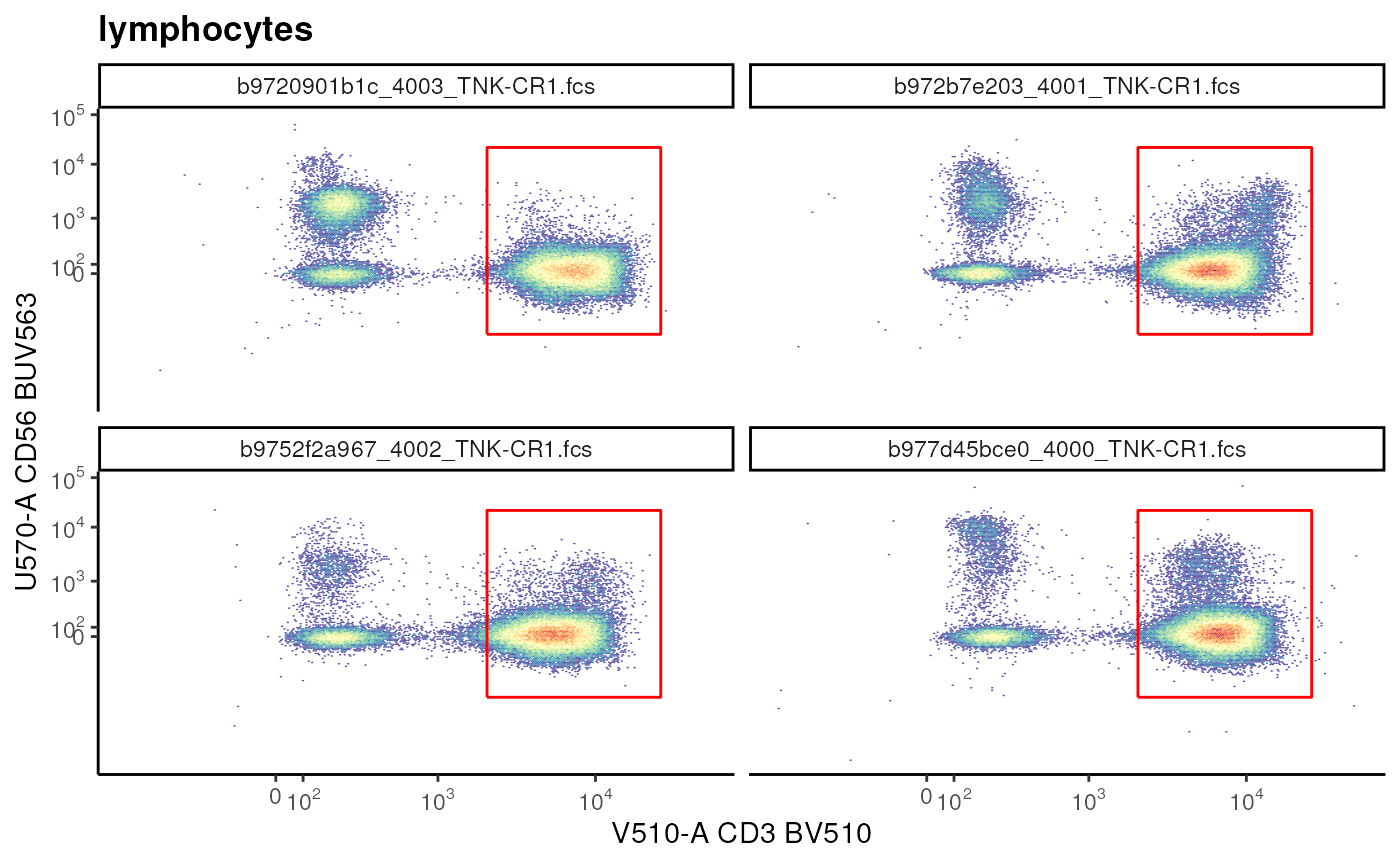
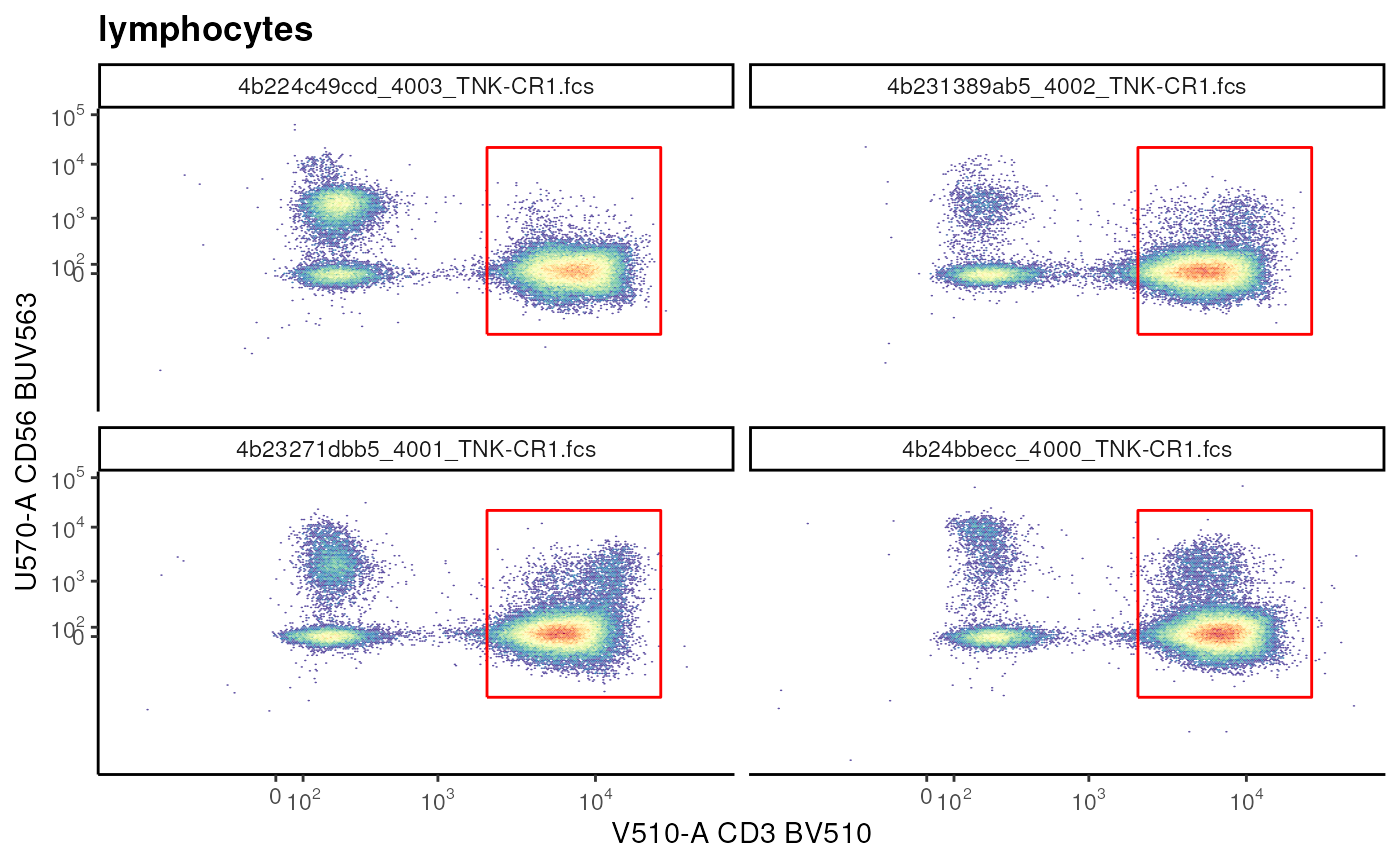
Deploying to gh-pages from @ OzetteTech/cytoverse-bioc-2023@3f255e2085b8fda57d5986c4566aa3592f939d51 🚀

diff --git a/articles/Import_fcs.html b/articles/Import_fcs.html
@@ -109,14 +109,15 @@ files</h1>
     
 <p>Flow cytometry data (regardless of the type of instrument used) is
 generally saved as a <strong>.fcs</strong> file. This file is populated
-with various parameters: such as userid, instrumentid,</p>
+with various parameters: such as userid or instrumentid, in addition to
+the actual single cell data [WRITE MORE].</p>
 <div class="section level2">
 <h2 id="installingloading-required-libraries">Installing/loading required libraries<a class="anchor" aria-label="anchor" href="#installingloading-required-libraries"></a>
 </h2>
 <p>Start by installing and loading the Cytoverse package
-<strong>flowCore</strong> hosted at <strong>bioconductor.org</strong>.
-This package allows us to read and manipulate the <strong>.fcs</strong>
-file in R.</p>
+<strong>flowCore</strong> hosted at
+<strong>biocosamnductor.org</strong>. This package allows us to read and
+manipulate the <strong>.fcs</strong> file in R.</p>
 <div class="sourceCode" id="cb1"><pre class="downlit sourceCode r">
 <code class="sourceCode R"><span><span class="fu"><a href="https://rdrr.io/r/utils/install.packages.html" class="external-link">install.packages</a></span><span class="op">(</span><span class="st">"BioManager"</span><span class="op">)</span></span>
 <span><span class="fu">BiocManager</span><span class="fu">::</span><span class="fu"><a href="https://bioconductor.github.io/BiocManager/reference/install.html" class="external-link">install</a></span><span class="op">(</span><span class="st">"flowCore"</span><span class="op">)</span></span></code></pre></div>
@@ -481,61 +482,61 @@ Additionally, <code>cytoset</code> is built upon a collection of
 <span><span class="co"># prior to providing metadata</span></span>
 <span><span class="fu"><a href="https://rdrr.io/pkg/Biobase/man/phenoData.html" class="external-link">pData</a></span><span class="op">(</span><span class="va">fs</span><span class="op">)</span></span></code></pre></div>
 <pre><code><span><span class="co">##                                                      name</span></span>
-<span><span class="co">## b97615bf0a5_4000_BDC-CR1.fcs b97615bf0a5_4000_BDC-CR1.fcs</span></span>
-<span><span class="co">## b9711543845_4000_BDC-CR2.fcs b9711543845_4000_BDC-CR2.fcs</span></span>
-<span><span class="co">## b977d45bce0_4000_TNK-CR1.fcs b977d45bce0_4000_TNK-CR1.fcs</span></span>
-<span><span class="co">## b9748bb2acf_4000_TNK-CR2.fcs b9748bb2acf_4000_TNK-CR2.fcs</span></span>
-<span><span class="co">## b972c30fdef_4001_BDC-CR1.fcs b972c30fdef_4001_BDC-CR1.fcs</span></span>
-<span><span class="co">## b973f63eb39_4001_BDC-CR2.fcs b973f63eb39_4001_BDC-CR2.fcs</span></span>
-<span><span class="co">## b972b7e203_4001_TNK-CR1.fcs   b972b7e203_4001_TNK-CR1.fcs</span></span>
-<span><span class="co">## b9770c0c3ee_4001_TNK-CR2.fcs b9770c0c3ee_4001_TNK-CR2.fcs</span></span>
-<span><span class="co">## b974e93be1c_4002_BDC-CR1.fcs b974e93be1c_4002_BDC-CR1.fcs</span></span>
-<span><span class="co">## b976efe113c_4002_BDC-CR2.fcs b976efe113c_4002_BDC-CR2.fcs</span></span>
-<span><span class="co">## b9752f2a967_4002_TNK-CR1.fcs b9752f2a967_4002_TNK-CR1.fcs</span></span>
-<span><span class="co">## b973dcd50cc_4002_TNK-CR2.fcs b973dcd50cc_4002_TNK-CR2.fcs</span></span>
-<span><span class="co">## b9724ab3921_4003_BDC-CR1.fcs b9724ab3921_4003_BDC-CR1.fcs</span></span>
-<span><span class="co">## b9773f7bc42_4003_BDC-CR2.fcs b9773f7bc42_4003_BDC-CR2.fcs</span></span>
-<span><span class="co">## b9720901b1c_4003_TNK-CR1.fcs b9720901b1c_4003_TNK-CR1.fcs</span></span>
-<span><span class="co">## b974c518dbf_4003_TNK-CR2.fcs b974c518dbf_4003_TNK-CR2.fcs</span></span></code></pre>
+<span><span class="co">## 4b22c204bb0_4000_BDC-CR1.fcs 4b22c204bb0_4000_BDC-CR1.fcs</span></span>
+<span><span class="co">## 4b24c3d3d45_4000_BDC-CR2.fcs 4b24c3d3d45_4000_BDC-CR2.fcs</span></span>
+<span><span class="co">## 4b24bbecc_4000_TNK-CR1.fcs     4b24bbecc_4000_TNK-CR1.fcs</span></span>
+<span><span class="co">## 4b230e08772_4000_TNK-CR2.fcs 4b230e08772_4000_TNK-CR2.fcs</span></span>
+<span><span class="co">## 4b2620860db_4001_BDC-CR1.fcs 4b2620860db_4001_BDC-CR1.fcs</span></span>
+<span><span class="co">## 4b267a096cd_4001_BDC-CR2.fcs 4b267a096cd_4001_BDC-CR2.fcs</span></span>
+<span><span class="co">## 4b23271dbb5_4001_TNK-CR1.fcs 4b23271dbb5_4001_TNK-CR1.fcs</span></span>
+<span><span class="co">## 4b2447e0a89_4001_TNK-CR2.fcs 4b2447e0a89_4001_TNK-CR2.fcs</span></span>
+<span><span class="co">## 4b2533bcf54_4002_BDC-CR1.fcs 4b2533bcf54_4002_BDC-CR1.fcs</span></span>
+<span><span class="co">## 4b2519a6229_4002_BDC-CR2.fcs 4b2519a6229_4002_BDC-CR2.fcs</span></span>
+<span><span class="co">## 4b231389ab5_4002_TNK-CR1.fcs 4b231389ab5_4002_TNK-CR1.fcs</span></span>
+<span><span class="co">## 4b241534469_4002_TNK-CR2.fcs 4b241534469_4002_TNK-CR2.fcs</span></span>
+<span><span class="co">## 4b2614f8d29_4003_BDC-CR1.fcs 4b2614f8d29_4003_BDC-CR1.fcs</span></span>
+<span><span class="co">## 4b250f2d882_4003_BDC-CR2.fcs 4b250f2d882_4003_BDC-CR2.fcs</span></span>
+<span><span class="co">## 4b224c49ccd_4003_TNK-CR1.fcs 4b224c49ccd_4003_TNK-CR1.fcs</span></span>
+<span><span class="co">## 4b2552dde4f_4003_TNK-CR2.fcs 4b2552dde4f_4003_TNK-CR2.fcs</span></span></code></pre>
 <div class="sourceCode" id="cb60"><pre class="downlit sourceCode r">
 <code class="sourceCode R"><span><span class="co"># add metadata </span></span>
 <span><span class="fu"><a href="https://rdrr.io/pkg/Biobase/man/phenoData.html" class="external-link">pData</a></span><span class="op">(</span><span class="va">fs</span><span class="op">)</span> <span class="op">&lt;-</span> <span class="va">metadata</span></span>
 <span></span>
 <span><span class="fu"><a href="https://rdrr.io/pkg/Biobase/man/phenoData.html" class="external-link">pData</a></span><span class="op">(</span><span class="va">fs</span><span class="op">)</span></span></code></pre></div>
 <pre><code><span><span class="co">##                              Treatment         panel</span></span>
-<span><span class="co">## b97615bf0a5_4000_BDC-CR1.fcs   Treated Myeloid Panel</span></span>
-<span><span class="co">## b9711543845_4000_BDC-CR2.fcs   Treated Myeloid Panel</span></span>
-<span><span class="co">## b977d45bce0_4000_TNK-CR1.fcs   Treated  T Cell Panel</span></span>
-<span><span class="co">## b9748bb2acf_4000_TNK-CR2.fcs   Treated  T Cell Panel</span></span>
-<span><span class="co">## b972c30fdef_4001_BDC-CR1.fcs Untreated Myeloid Panel</span></span>
-<span><span class="co">## b973f63eb39_4001_BDC-CR2.fcs Untreated Myeloid Panel</span></span>
-<span><span class="co">## b972b7e203_4001_TNK-CR1.fcs  Untreated  T Cell Panel</span></span>
-<span><span class="co">## b9770c0c3ee_4001_TNK-CR2.fcs   Treated  T Cell Panel</span></span>
-<span><span class="co">## b974e93be1c_4002_BDC-CR1.fcs Untreated Myeloid Panel</span></span>
-<span><span class="co">## b976efe113c_4002_BDC-CR2.fcs   Treated Myeloid Panel</span></span>
-<span><span class="co">## b9752f2a967_4002_TNK-CR1.fcs Untreated  T Cell Panel</span></span>
-<span><span class="co">## b973dcd50cc_4002_TNK-CR2.fcs Untreated  T Cell Panel</span></span>
-<span><span class="co">## b9724ab3921_4003_BDC-CR1.fcs Untreated Myeloid Panel</span></span>
-<span><span class="co">## b9773f7bc42_4003_BDC-CR2.fcs Untreated Myeloid Panel</span></span>
-<span><span class="co">## b9720901b1c_4003_TNK-CR1.fcs Untreated  T Cell Panel</span></span>
-<span><span class="co">## b974c518dbf_4003_TNK-CR2.fcs   Treated  T Cell Panel</span></span>
+<span><span class="co">## 4b22c204bb0_4000_BDC-CR1.fcs Untreated Myeloid Panel</span></span>
+<span><span class="co">## 4b24c3d3d45_4000_BDC-CR2.fcs   Treated Myeloid Panel</span></span>
+<span><span class="co">## 4b24bbecc_4000_TNK-CR1.fcs   Untreated  T Cell Panel</span></span>
+<span><span class="co">## 4b230e08772_4000_TNK-CR2.fcs Untreated  T Cell Panel</span></span>
+<span><span class="co">## 4b2620860db_4001_BDC-CR1.fcs Untreated Myeloid Panel</span></span>
+<span><span class="co">## 4b267a096cd_4001_BDC-CR2.fcs   Treated Myeloid Panel</span></span>
+<span><span class="co">## 4b23271dbb5_4001_TNK-CR1.fcs Untreated  T Cell Panel</span></span>
+<span><span class="co">## 4b2447e0a89_4001_TNK-CR2.fcs Untreated  T Cell Panel</span></span>
+<span><span class="co">## 4b2533bcf54_4002_BDC-CR1.fcs Untreated Myeloid Panel</span></span>
+<span><span class="co">## 4b2519a6229_4002_BDC-CR2.fcs   Treated Myeloid Panel</span></span>
+<span><span class="co">## 4b231389ab5_4002_TNK-CR1.fcs   Treated  T Cell Panel</span></span>
+<span><span class="co">## 4b241534469_4002_TNK-CR2.fcs   Treated  T Cell Panel</span></span>
+<span><span class="co">## 4b2614f8d29_4003_BDC-CR1.fcs   Treated Myeloid Panel</span></span>
+<span><span class="co">## 4b250f2d882_4003_BDC-CR2.fcs Untreated Myeloid Panel</span></span>
+<span><span class="co">## 4b224c49ccd_4003_TNK-CR1.fcs   Treated  T Cell Panel</span></span>
+<span><span class="co">## 4b2552dde4f_4003_TNK-CR2.fcs Untreated  T Cell Panel</span></span>
 <span><span class="co">##                                                      name</span></span>
-<span><span class="co">## b97615bf0a5_4000_BDC-CR1.fcs b97615bf0a5_4000_BDC-CR1.fcs</span></span>
-<span><span class="co">## b9711543845_4000_BDC-CR2.fcs b9711543845_4000_BDC-CR2.fcs</span></span>
-<span><span class="co">## b977d45bce0_4000_TNK-CR1.fcs b977d45bce0_4000_TNK-CR1.fcs</span></span>
-<span><span class="co">## b9748bb2acf_4000_TNK-CR2.fcs b9748bb2acf_4000_TNK-CR2.fcs</span></span>
-<span><span class="co">## b972c30fdef_4001_BDC-CR1.fcs b972c30fdef_4001_BDC-CR1.fcs</span></span>
-<span><span class="co">## b973f63eb39_4001_BDC-CR2.fcs b973f63eb39_4001_BDC-CR2.fcs</span></span>
-<span><span class="co">## b972b7e203_4001_TNK-CR1.fcs   b972b7e203_4001_TNK-CR1.fcs</span></span>
-<span><span class="co">## b9770c0c3ee_4001_TNK-CR2.fcs b9770c0c3ee_4001_TNK-CR2.fcs</span></span>
-<span><span class="co">## b974e93be1c_4002_BDC-CR1.fcs b974e93be1c_4002_BDC-CR1.fcs</span></span>
-<span><span class="co">## b976efe113c_4002_BDC-CR2.fcs b976efe113c_4002_BDC-CR2.fcs</span></span>
-<span><span class="co">## b9752f2a967_4002_TNK-CR1.fcs b9752f2a967_4002_TNK-CR1.fcs</span></span>
-<span><span class="co">## b973dcd50cc_4002_TNK-CR2.fcs b973dcd50cc_4002_TNK-CR2.fcs</span></span>
-<span><span class="co">## b9724ab3921_4003_BDC-CR1.fcs b9724ab3921_4003_BDC-CR1.fcs</span></span>
-<span><span class="co">## b9773f7bc42_4003_BDC-CR2.fcs b9773f7bc42_4003_BDC-CR2.fcs</span></span>
-<span><span class="co">## b9720901b1c_4003_TNK-CR1.fcs b9720901b1c_4003_TNK-CR1.fcs</span></span>
-<span><span class="co">## b974c518dbf_4003_TNK-CR2.fcs b974c518dbf_4003_TNK-CR2.fcs</span></span></code></pre>
+<span><span class="co">## 4b22c204bb0_4000_BDC-CR1.fcs 4b22c204bb0_4000_BDC-CR1.fcs</span></span>
+<span><span class="co">## 4b24c3d3d45_4000_BDC-CR2.fcs 4b24c3d3d45_4000_BDC-CR2.fcs</span></span>
+<span><span class="co">## 4b24bbecc_4000_TNK-CR1.fcs     4b24bbecc_4000_TNK-CR1.fcs</span></span>
+<span><span class="co">## 4b230e08772_4000_TNK-CR2.fcs 4b230e08772_4000_TNK-CR2.fcs</span></span>
+<span><span class="co">## 4b2620860db_4001_BDC-CR1.fcs 4b2620860db_4001_BDC-CR1.fcs</span></span>
+<span><span class="co">## 4b267a096cd_4001_BDC-CR2.fcs 4b267a096cd_4001_BDC-CR2.fcs</span></span>
+<span><span class="co">## 4b23271dbb5_4001_TNK-CR1.fcs 4b23271dbb5_4001_TNK-CR1.fcs</span></span>
+<span><span class="co">## 4b2447e0a89_4001_TNK-CR2.fcs 4b2447e0a89_4001_TNK-CR2.fcs</span></span>
+<span><span class="co">## 4b2533bcf54_4002_BDC-CR1.fcs 4b2533bcf54_4002_BDC-CR1.fcs</span></span>
+<span><span class="co">## 4b2519a6229_4002_BDC-CR2.fcs 4b2519a6229_4002_BDC-CR2.fcs</span></span>
+<span><span class="co">## 4b231389ab5_4002_TNK-CR1.fcs 4b231389ab5_4002_TNK-CR1.fcs</span></span>
+<span><span class="co">## 4b241534469_4002_TNK-CR2.fcs 4b241534469_4002_TNK-CR2.fcs</span></span>
+<span><span class="co">## 4b2614f8d29_4003_BDC-CR1.fcs 4b2614f8d29_4003_BDC-CR1.fcs</span></span>
+<span><span class="co">## 4b250f2d882_4003_BDC-CR2.fcs 4b250f2d882_4003_BDC-CR2.fcs</span></span>
+<span><span class="co">## 4b224c49ccd_4003_TNK-CR1.fcs 4b224c49ccd_4003_TNK-CR1.fcs</span></span>
+<span><span class="co">## 4b2552dde4f_4003_TNK-CR2.fcs 4b2552dde4f_4003_TNK-CR2.fcs</span></span></code></pre>
 <p>The benefit having metadata is that we can use many of the
 sub-setting operations in a metadata specific manner. <em>Note: Many of
 the sub-setting operation for <code>flowFrame</code> is also applicable
@@ -558,23 +559,23 @@ files.</p>
 <div class="sourceCode" id="cb64"><pre class="downlit sourceCode r">
 <code class="sourceCode R"><span><span class="fu"><a href="https://rdrr.io/pkg/Biobase/man/phenoData.html" class="external-link">pData</a></span><span class="op">(</span><span class="va">fs_myeloid</span><span class="op">)</span></span></code></pre></div>
 <pre><code><span><span class="co">##                              Treatment         panel</span></span>
-<span><span class="co">## b97615bf0a5_4000_BDC-CR1.fcs   Treated Myeloid Panel</span></span>
-<span><span class="co">## b9711543845_4000_BDC-CR2.fcs   Treated Myeloid Panel</span></span>
-<span><span class="co">## b972c30fdef_4001_BDC-CR1.fcs Untreated Myeloid Panel</span></span>
-<span><span class="co">## b973f63eb39_4001_BDC-CR2.fcs Untreated Myeloid Panel</span></span>
-<span><span class="co">## b974e93be1c_4002_BDC-CR1.fcs Untreated Myeloid Panel</span></span>
-<span><span class="co">## b976efe113c_4002_BDC-CR2.fcs   Treated Myeloid Panel</span></span>
-<span><span class="co">## b9724ab3921_4003_BDC-CR1.fcs Untreated Myeloid Panel</span></span>
-<span><span class="co">## b9773f7bc42_4003_BDC-CR2.fcs Untreated Myeloid Panel</span></span>
+<span><span class="co">## 4b22c204bb0_4000_BDC-CR1.fcs Untreated Myeloid Panel</span></span>
+<span><span class="co">## 4b24c3d3d45_4000_BDC-CR2.fcs   Treated Myeloid Panel</span></span>
+<span><span class="co">## 4b2620860db_4001_BDC-CR1.fcs Untreated Myeloid Panel</span></span>
+<span><span class="co">## 4b267a096cd_4001_BDC-CR2.fcs   Treated Myeloid Panel</span></span>
+<span><span class="co">## 4b2533bcf54_4002_BDC-CR1.fcs Untreated Myeloid Panel</span></span>
+<span><span class="co">## 4b2519a6229_4002_BDC-CR2.fcs   Treated Myeloid Panel</span></span>
+<span><span class="co">## 4b2614f8d29_4003_BDC-CR1.fcs   Treated Myeloid Panel</span></span>
+<span><span class="co">## 4b250f2d882_4003_BDC-CR2.fcs Untreated Myeloid Panel</span></span>
 <span><span class="co">##                                                      name</span></span>
-<span><span class="co">## b97615bf0a5_4000_BDC-CR1.fcs b97615bf0a5_4000_BDC-CR1.fcs</span></span>
-<span><span class="co">## b9711543845_4000_BDC-CR2.fcs b9711543845_4000_BDC-CR2.fcs</span></span>
-<span><span class="co">## b972c30fdef_4001_BDC-CR1.fcs b972c30fdef_4001_BDC-CR1.fcs</span></span>
-<span><span class="co">## b973f63eb39_4001_BDC-CR2.fcs b973f63eb39_4001_BDC-CR2.fcs</span></span>
-<span><span class="co">## b974e93be1c_4002_BDC-CR1.fcs b974e93be1c_4002_BDC-CR1.fcs</span></span>
-<span><span class="co">## b976efe113c_4002_BDC-CR2.fcs b976efe113c_4002_BDC-CR2.fcs</span></span>
-<span><span class="co">## b9724ab3921_4003_BDC-CR1.fcs b9724ab3921_4003_BDC-CR1.fcs</span></span>
-<span><span class="co">## b9773f7bc42_4003_BDC-CR2.fcs b9773f7bc42_4003_BDC-CR2.fcs</span></span></code></pre>
+<span><span class="co">## 4b22c204bb0_4000_BDC-CR1.fcs 4b22c204bb0_4000_BDC-CR1.fcs</span></span>
+<span><span class="co">## 4b24c3d3d45_4000_BDC-CR2.fcs 4b24c3d3d45_4000_BDC-CR2.fcs</span></span>
+<span><span class="co">## 4b2620860db_4001_BDC-CR1.fcs 4b2620860db_4001_BDC-CR1.fcs</span></span>
+<span><span class="co">## 4b267a096cd_4001_BDC-CR2.fcs 4b267a096cd_4001_BDC-CR2.fcs</span></span>
+<span><span class="co">## 4b2533bcf54_4002_BDC-CR1.fcs 4b2533bcf54_4002_BDC-CR1.fcs</span></span>
+<span><span class="co">## 4b2519a6229_4002_BDC-CR2.fcs 4b2519a6229_4002_BDC-CR2.fcs</span></span>
+<span><span class="co">## 4b2614f8d29_4003_BDC-CR1.fcs 4b2614f8d29_4003_BDC-CR1.fcs</span></span>
+<span><span class="co">## 4b250f2d882_4003_BDC-CR2.fcs 4b250f2d882_4003_BDC-CR2.fcs</span></span></code></pre>
 <p>Example of <code>cytoset</code> sub-setting</p>
 <div class="sourceCode" id="cb66"><pre class="downlit sourceCode r">
 <code class="sourceCode R"><span><span class="co"># demonstrate how cs point to the same underlying data</span></span>

diff --git a/articles/Gating_1.html b/articles/Gating_1.html
@@ -120,16 +120,16 @@ tackle this problem in a reproducible and programmatic manner.</p>
 <div class="section level3">
 <h3 id="gatingset-and-gatingheirarchy">GatingSet and GatingHeirarchy<a class="anchor" aria-label="anchor" href="#gatingset-and-gatingheirarchy"></a>
 </h3>
-<p>In the previous sections, we have seen (and worked with)
-<code>flowFrame</code>, <code>flowSet</code>, <code>cytoframe</code>,
-and <code>cytoset</code>. These objects hold the underlying FCS data,
-allow us to visualize it, manipulate it etc.</p>
+<p>In the previous sections, we have worked with <code>flowFrame</code>,
+<code>flowSet</code>, <code>cytoframe</code>, and <code>cytoset</code>.
+These objects hold the underlying FCS data, allow us to visualize it,
+manipulate it etc.</p>
 <p>In this section we work with <code>GatingSet</code> and
 <code>GatingHierarchy</code>. These objects, like the name suggests,
 store information regarding various gates and filters that we will
 generate. Importantly, we can save the <code>GatingSet</code> which will
 completely package the analysis as well as the FCS files in an
-opensource format that can be shared, allowing reproducibility.</p>
+open-source format that can be shared, allowing reproducibility.</p>
 <p>First, we will go over variety of native methods that exist in the
 <code>cytoverse</code> which analysts can utilize to gate their cells of
 interest. Next, we will demonstrate how analysts can automate this
@@ -199,10 +199,8 @@ the metadata to help construct gates (if need be).</p>
 <p>As well we can transform the <code>GatingSet</code>. For convenience,
 we are using a previously defined <strong>transformerList</strong>
 object. The <strong>transformerList</strong> object was extracted from
-the workspace file created by the authors of the study[ADD RED]. While
-we don’t go over the process here, please look over [THIS SUPPLEMENTAL
-VIGNETTE: Small vignette to highlight how one can read a FJ workspace
-file] for details on how one could do it.</p>
+the workspace file created by the authors of <a href="https://doi.org/10.1038/s41467-022-34638-2" class="external-link">this</a> study and can
+be found <a href="https://flowrepository.org/public_experiment_representations/5932" class="external-link">here</a>.</p>
 <div class="sourceCode" id="cb8"><pre class="downlit sourceCode r">
 <code class="sourceCode R"><span><span class="co"># transformation of GatingSet</span></span>
 <span><span class="va">t.rds</span> <span class="op">&lt;-</span> <span class="fu">dplyr</span><span class="fu">::</span><span class="fu"><a href="https://dplyr.tidyverse.org/reference/filter.html" class="external-link">filter</a></span><span class="op">(</span><span class="fu"><a href="../reference/cache_workshop_data.html">get_workshop_data</a></span><span class="op">(</span><span class="st">"/fj_wsp"</span><span class="op">)</span>, <span class="co"># a previously defined transformation</span></span>
@@ -263,7 +261,7 @@ use of the <code>ggcyto</code> library, highlighting its usage.</p>
 <em>Note:</em> Singlets gate was estimated for each sample.</p>
 <div class="sourceCode" id="cb11"><pre class="downlit sourceCode r">
 <code class="sourceCode R"><span><span class="co"># add gate to the GatingSet </span></span>
-<span><span class="fu"><a href="https://rdrr.io/pkg/flowWorkspace/man/gs_pop_add.html" class="external-link">gs_pop_add</a></span><span class="op">(</span><span class="va">gs</span>, <span class="va">singlet_gate</span>, parent <span class="op">=</span> <span class="st">"root"</span><span class="op">)</span> <span class="co"># add singlet_gate to the root node</span></span></code></pre></div>
+<span><span class="fu"><a href="https://rdrr.io/pkg/flowWorkspace/man/gs_pop_add.html" class="external-link">gs_pop_add</a></span><span class="op">(</span><span class="va">gs</span>,<span class="va">singlet_gate</span>, parent <span class="op">=</span> <span class="st">"root"</span><span class="op">)</span> <span class="co"># add singlet_gate to the root node</span></span></code></pre></div>
 <pre><code><span><span class="co">## [1] 2</span></span></code></pre>
 <div class="sourceCode" id="cb13"><pre class="downlit sourceCode r">
 <code class="sourceCode R"><span><span class="fu"><a href="https://rdrr.io/pkg/flowWorkspace/man/recompute.html" class="external-link">recompute</a></span><span class="op">(</span><span class="va">gs</span><span class="op">)</span> <span class="co"># recompute updates the gs</span></span></code></pre></div>
@@ -534,6 +532,7 @@ gates</p></li>
 <span><span class="co"># add not MAIT gate</span></span>
 <span><span class="co">## Example of booleanFilter</span></span>
 <span><span class="va">not_mait</span> <span class="op">&lt;-</span> <span class="fu"><a href="https://rdrr.io/pkg/flowWorkspace/man/booleanFilter-class.html" class="external-link">booleanFilter</a></span><span class="op">(</span><span class="va">`!MAIT Cells`</span>, filterId <span class="op">=</span> <span class="st">"not_MAIT"</span><span class="op">)</span></span>
+<span></span>
 <span></span>
 <span><span class="co"># add boolean gate</span></span>
 <span><span class="fu"><a href="https://rdrr.io/pkg/flowWorkspace/man/gs_pop_add.html" class="external-link">gs_pop_add</a></span><span class="op">(</span><span class="va">gs</span>, <span class="va">not_mait</span>, parent <span class="op">=</span> <span class="st">"conv_Tcells"</span><span class="op">)</span></span>

diff --git a/articles/Reporting_1.html b/articles/Reporting_1.html
@@ -110,8 +110,9 @@
 <h2 id="background">Background<a class="anchor" aria-label="anchor" href="#background"></a>
 </h2>
 <p>The final step in the analysis of flow cytometry data is
-<strong>Reporting</strong>. At this stage, we bring all the tools that
-we have …[COMPLETE THIS]</p>
+<strong>Reporting</strong>. Below, we show how analysts can quickly
+extract counts, frequencies, and expression values for their
+population(s) of interest.</p>
 <div class="sourceCode" id="cb1"><pre class="downlit sourceCode r">
 <code class="sourceCode R"><span><span class="kw"><a href="https://rdrr.io/r/base/library.html" class="external-link">library</a></span><span class="op">(</span><span class="va">flowCore</span><span class="op">)</span></span>
 <span><span class="kw"><a href="https://rdrr.io/r/base/library.html" class="external-link">library</a></span><span class="op">(</span><span class="va">flowWorkspace</span><span class="op">)</span></span>
@@ -124,7 +125,7 @@ we have …[COMPLETE THIS]</p>
 <div class="section level3">
 <h3 id="counts-frequencies-and-mfi">Counts, Frequencies, and MFI<a class="anchor" aria-label="anchor" href="#counts-frequencies-and-mfi"></a>
 </h3>
-<p>[WRITE STUFF HERE]</p>
+<p>Event counts can be easily extracted in a table f</p>
 <div class="sourceCode" id="cb4"><pre class="downlit sourceCode r">
 <code class="sourceCode R"><span><span class="co"># get count for all</span></span>
 <span><span class="va">counts</span> <span class="op">&lt;-</span> <span class="fu"><a href="https://rdrr.io/pkg/flowWorkspace/man/gs_pop_get_count_fast.html" class="external-link">gs_pop_get_count_fast</a></span><span class="op">(</span><span class="va">gs</span>,  <span class="co"># indicate which GatingSet to use</span></span>

diff --git a/articles/Bioc2023_Cytoverse.html b/articles/Bioc2023_Cytoverse.html
@@ -159,7 +159,8 @@ of various subpopulations</li>
 <h3 id="data">Data<a class="anchor" aria-label="anchor" href="#data"></a>
 </h3>
 <p>For this workshop, we will use subset of a public dataset: <a href="https://flowrepository.org/public_experiment_representations/5932" class="external-link">FR-FCM-Z5PC</a>
-that can be found in <strong>flowrepository.org</strong>.</p>
+that can be found in <strong>flowrepository.org</strong>. The dataset
+was published in the following <a href="https://doi.org/10.1038/s41467-022-34638-2" class="external-link">paper</a>.</p>
 </div>
 <div class="section level3">
 <h3 id="workshop-schedule">Workshop schedule<a class="anchor" aria-label="anchor" href="#workshop-schedule"></a>

diff --git a/articles/ggcyto_1-5.html b/articles/ggcyto_1-5.html
@@ -245,7 +245,7 @@ than those defined for a node</li>
 <code>gs_get_pop_paths(gs)[8]</code> to define CD4+ vs CD8+ T cells.
 Unlike with <code>autoplot</code>, <code>ggcyto</code> method allows us
 to look at the data from the point of <code>subset</code>. In the above
-example, <code>subset = "singlet</code>.</p>
+example, <code>subset = "singlet"</code>.</p>
 <ol start="2" style="list-style-type: decimal">
 <li>Adding a gate and stats layer that doesn’t exist in the
 <code>subset</code> node</li>
